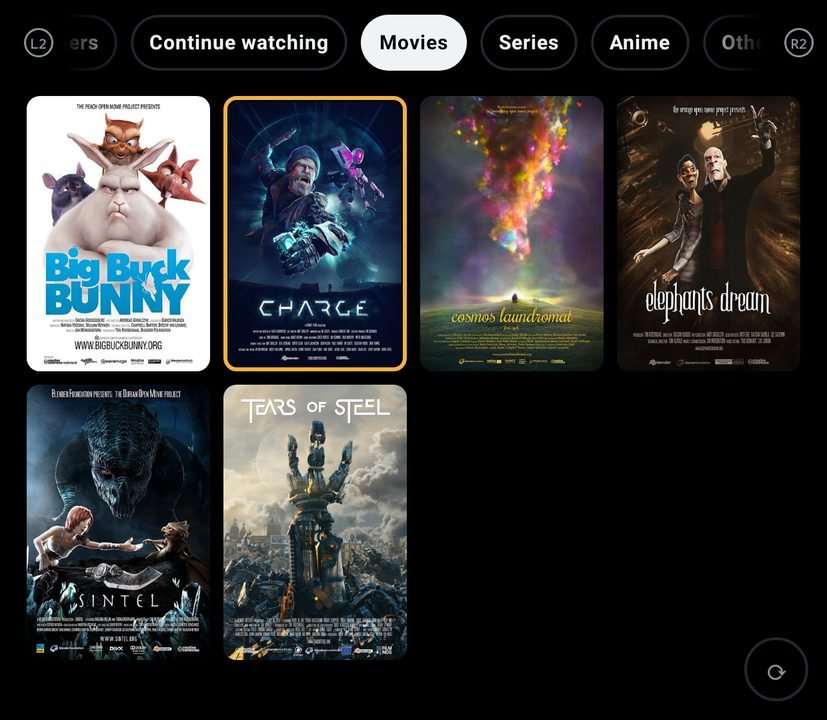
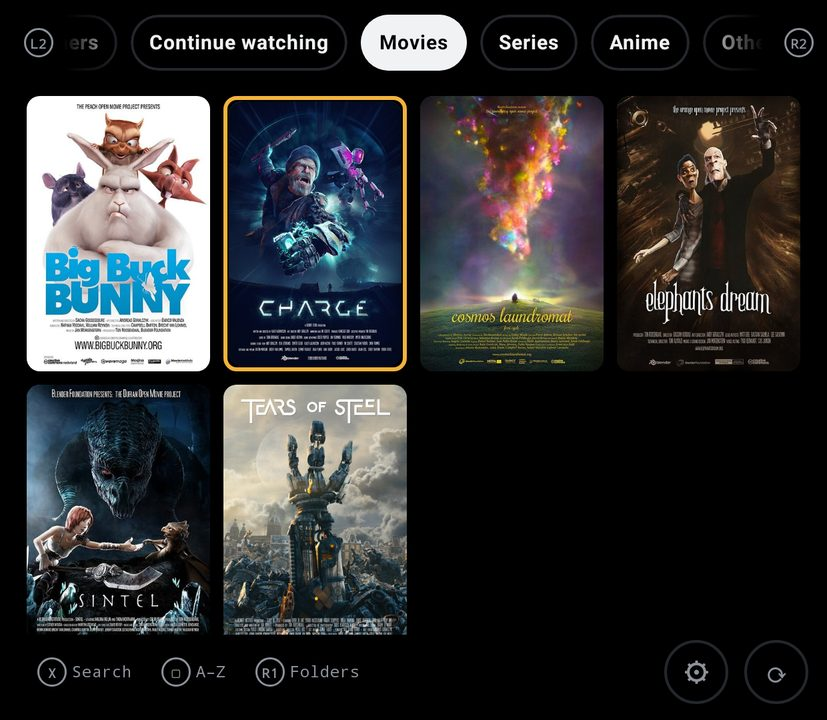
Docs and mockup page: v1 built
Records D43–D47 (Fix match, how Fetch info fills things in, Playback settings,
Browsing's new buttons, and what's left out of v1 and why), updates FEATURES and
the README status, and on the mockup page marks stages 6, 7 and the library extras
done, updates the plan markers and the comparison, and adds screenshots of Fix
match, Playback settings, Search and the folder browser.

Claude-Session: https://claude.ai/code/session_013sgYgnHkKU9qngHH6HQLSb

Changed region(s): [[0.2721, 0.8556, 0.5139, 0.9472], [0.0302, 0.8556, 0.2721, 0.9472], [0.786, 0.8861, 0.9674, 0.9778]]

diff --git a/docs/mockups/plan-and-screens.html b/docs/mockups/plan-and-screens.html
@@ -255,6 +255,7 @@ p { margin: 0; }
 .stg .commit { font: 500 12px/1.3 var(--f-mono); color: var(--muted); }
 .pill.done { color: var(--ok); border: 1px solid currentColor; }
 .pill.next { color: var(--accent); border: 1px solid currentColor; }
+.pill.todo { color: var(--muted); border: 1px dashed var(--line); }
 .shots { display: grid; gap: 22px; }
 .shot { display: grid; gap: 10px; min-width: 0; }
 .shot header { display: flex; justify-content: space-between; align-items: baseline; gap: 12px; flex-wrap: wrap; }
@@ -290,7 +291,7 @@ p { margin: 0; }
 </style>
 
 <header class="masthead wrap">
-  <div class="eyebrow">Exo Player · updated Oct 25, 2026 · stages 1–5 of 6 built</div>
+  <div class="eyebrow">Exo Player · updated Oct 25, 2026 · v1 built; gates need the Thor</div>
   <h1>Both screens, every state, and the plan behind them</h1>
   <p class="lede">The mockup of each screen state, drawn to the Thor's real proportions, with the build plan by category and the display and layout rules. Decisions are marked <b>(decided)</b>. The Build tab shows how far the app has got and what its screens actually look like.</p>
 </header>
@@ -359,7 +360,7 @@ p { margin: 0; }
 
   <!-- ================= BUILD ================= -->
   <section class="view" id="build" role="tabpanel" aria-labelledby="tab-build" hidden>
-    <div><h2>Build progress</h2><p class="lede" style="margin-top:6px">v1 is being built in six stages. Each stage is committed to the repo once it compiles and its tests pass. Nothing has run on a Thor yet: the screens below are drawn by the app's own code at the Thor's pixel sizes, using the open-movie sample art.</p></div>
+    <div><h2>Build progress</h2><p class="lede" style="margin-top:6px">v1 was built in stages, each committed once it compiled and its tests passed. Every v1 feature is now built; the gates need the Thor. Nothing has run on a Thor yet: the screens below are drawn by the app's own code at the Thor's pixel sizes, using the open-movie sample art.</p></div>
     <div class="stages" id="stages"></div>
     <div><h2>The real screens</h2><p class="lede" style="margin-top:6px">Top screen on the left, bottom screen on the right, as the app draws them. The ⏻ and ✎ corner buttons are drawn by the bottom window around these screens, so they don't appear here. <b>Compare with mockup</b> opens the same state on the Screens tab.</p></div>
     <div class="shots" id="shots"></div>
@@ -981,7 +982,7 @@ p { margin: 0; }
   var gates = [
     ["v0", "Two-screen test app + mockups", "Probe app measures the Thor; layouts compared", 0, "part", "Mockups done; the measuring page is in the app (Select + Start). Measuring needs the Thor"],
     ["G1", "Gate 1", "Both screens work with buttons and touch; probe questions answered; layout chosen", 1, "todo", "Needs the Thor"],
-    ["v1", "First usable player", "Library, artwork, resume, auto-next, local subtitles", 0, "part", "Stages 1–5, Settings, volume bar and pause-on-leave built; stage 6 (online) next, then the player extras"],
+    ["v1", "First usable player", "Library, artwork, resume, auto-next, local subtitles", 0, "part", "Every v1 feature is built and tested on the PC; what's left is the gates, which need the Thor"],
     ["G2", "Gate 2", "Battery ≤ VLC (±3%); 95% of 100 filenames match", 1, "todo", "Needs the Thor and your 100 file names"],
     ["v2", "Comfort", "Backup, frontends, TV output, sleep timer", 0, "todo", ""],
     ["G3", "Gate 3", "No battery regression", 1, "todo", ""],
@@ -1013,25 +1014,25 @@ p { margin: 0; }
       ["Pick the SD card folder once (folder picker)", "v1", "done"],
       ["Scan, then rescan only changed folders", "v1", "part", "Only changed files are read again, but every folder is still listed"],
       ["Filename parser, tested on 100 real names", "v1", "part", "Built and tested on 38 names; needs your 100"],
-      ["Match on TMDB; download posters, backdrops, logos", "v1", "todo", "Stage 6"],
-      ["Group Show › Season › Episode; list missing episodes", "v1", "part", "Grouping built; missing episodes appear once Fetch info works"],
-      ["Fix a match by hand; survives rescans", "v1", "todo", "Stage 6; the keyboard for it is built"],
-      ["Folder browser; search, sort, filter", "v1", "todo"],
+      ["Match on TMDB; download posters, backdrops, logos", "v1", "done", "Only what's missing (D38); no logos yet, since nothing shows them. Tested against a stand-in server"],
+      ["Group Show › Season › Episode; list missing episodes", "v1", "done"],
+      ["Fix a match by hand; survives rescans", "v1", "done", "✎ or Y; by name or TMDB ID (D43)"],
+      ["Folder browser; search, sort, filter", "v1", "done", "X Search, Select order, R1 Folders (D46)"],
       ["Settings: API keys (typed or pasted, stored encrypted), refresh rate per screen, video folder, About", "v1", "done"],
       ["Pause and save when leaving the app, power off or lid (D40)", "v1", "done"] ] },
     { t: "Playback", s: "Everything that happens once you press Play.", steps: [
       ["ExoPlayer + FFmpeg audio; hardware decoding first", "v1", "done"],
       ["Notices for software decoding and unsupported audio", "v1", "done"],
-      ["Seek, skip, chapters, speed, aspect, volume boost, screen lock", "v1", "part", "±10 s skip and the volume bar with boost to 200 %; the rest is planned as stage 7"],
-      ["Audio and subtitle tracks; delay in 50 ms steps", "v1", "part", "Tracks and subtitle delay built; audio delay not yet"],
+      ["Seek, skip, chapters, speed, aspect, volume boost, screen lock", "v1", "part", "All built except chapters (ExoPlayer doesn't read MKV chapters) and the touch lock (dropped: ⏻ covers it) (D47)"],
+      ["Audio and subtitle tracks; delay in 50 ms steps", "v1", "done", "Audio delay in Playback settings (Start)"],
       ["Resume; watched at 90%; auto-play next with countdown", "v1", "done"],
       ["Sleep timer, background audio, night mode, Bluetooth delay", "v2", "todo"],
       ["Playlists and queue; TV output when docked", "v2", "todo"],
       ["Picture-in-picture; skip intro", "v3", "todo"] ] },
     { t: "Subtitles", s: "Find, show and style subtitles.", steps: [
       ["Load .srt, .ass, .vtt next to the video automatically", "v1", "done"],
-      ["Basic styling: size, colour, outline, position", "v1", "todo"],
-      ["OpenSubtitles search by file hash; save next to the video", "v1", "todo", "Stage 6; keys go in Settings"],
+      ["Basic styling: size, colour, outline, position", "v1", "done", "Size, position, dark box (D45)"],
+      ["OpenSubtitles search by file hash; save next to the video", "v1", "done", "Tested against a stand-in server"],
       ["Full ASS styling (libass renderer)", "v2", "todo"] ] },
     { t: "Progress & stats", s: "What you've watched, kept on the device.", steps: [
       ["Watch sessions recorded; saves on pause, stop and once a minute", "v1", "done"],
@@ -1050,7 +1051,7 @@ p { margin: 0; }
       ["Battery test against VLC on the same firmware", "v1", "todo", "Needs the Thor"],
       ["After every Thor OTA: rerun the short checklist", "v1", "todo"] ] },
     { t: "Testing", s: "Most of it works before the Thor arrives.", steps: [
-      ["Unit tests: parser, stats maths, overrides", "v1", "part", "45 tests: parser, library, subtitles, series, keyboard, settings; stats and overrides not yet"],
+      ["Unit tests: parser, stats maths, overrides", "v1", "part", "74 tests, overrides included; stats maths waits for the stats screen"],
       ["Emulator with a simulated 1240×1080 second screen", "v0", "part", "No emulator here: screenshot tests draw the screens at the Thor’s sizes instead"],
       ["Your phone: decoding, subtitles, Bluetooth controller", "v1", "todo"],
       ["Thor: both screens, buttons, battery", "v0", "todo", "Needs the Thor"] ] }
@@ -1082,18 +1083,18 @@ p { margin: 0; }
     ["Subtitle files next to the video", ".srt, .ass, .vtt; matched by name and language", "Built", "y", "y", "y", "y", "y", "y"],
     ["Full ASS styling and embedded fonts", "Anime signs, karaoke, positions", "v2", "y", "p", "p", "y", "y", "p"],
     ["Subtitle timing", "Exo Player moves its own subtitle files earlier or later, 50 ms at a time", "Built", "y", "y", "y", "y", "y", "y"],
-    ["Find subtitles online", "OpenSubtitles", "Stage 6", "y", "y", "n", "a", "n", "y"],
+    ["Find subtitles online", "OpenSubtitles", "Built", "y", "y", "n", "a", "n", "y"],
     ["Playback"],
     ["Resume where you stopped", "", "Built", "y", "y", "y", "y", "p", "y"],
-    ["Speed, aspect and zoom, audio delay", "", "Stage 7", "y", "y", "p", "y", "y", "y"],
+    ["Speed, aspect and zoom, audio delay", "", "Built", "y", "y", "p", "y", "y", "y"],
     ["Up next with a countdown", "Next episode plays by itself; one button cancels", "Built", "p", "p", "n", "a", "p", "p"],
     ["Picture-in-picture", "", "v3", "y", "y", "y", "n", "p", "y"],
     ["Library"],
-    ["Posters, plots and backdrops", "Scraped from TMDB", "Stage 6", "n", "n", "n", "y", "n", "y"],
+    ["Posters, plots and backdrops", "Scraped from TMDB", "Built", "n", "n", "n", "y", "n", "y"],
     ["Show › Season › Episode", "Even when files sit loose in one folder", "Built", "p", "n", "n", "y", "n", "y"],
     ["Continue watching", "Half-watched movies and the next episode of each show", "Built", "p", "p", "n", "y", "n", "p"],
     ["Missing episodes greyed", "From TMDB's episode list", "Built", "n", "n", "n", "a", "n", "n"],
-    ["Fix a wrong match by hand", "", "Stage 6", "n", "n", "n", "y", "n", "y"],
+    ["Fix a wrong match by hand", "", "Built", "n", "n", "n", "y", "n", "y"],
     ["Trakt sync", "", "v3", "n", "n", "n", "a", "n", "y"],
     ["Network"],
     ["Network shares", "SMB, DLNA", "Later", "y", "y", "n", "y", "p", "y"],
@@ -1153,7 +1154,7 @@ p { margin: 0; }
 
   document.getElementById("cmpSum").innerHTML = [
     ["Where we're ahead", ["The only player that uses both of the Thor's screens", "Continue watching, Up next and missing episodes together, in a player this light", "Never goes online unless you press a button"]],
-    ["Planned, to catch up", ["Stage 6: artwork from TMDB, Find subtitles, Fix match", "Stage 7: speed, aspect and zoom, audio delay, mark unwatched, search", "v2: full ASS styling, network shares later"]],
+    ["Planned, to catch up", ["v2: full ASS styling, background audio with notification controls, backup, TV output", "Later: network shares, Jellyfin and Plex"]],
     ["Gaps to decide", ["Software video decoders, our own FFmpeg build, for 10-bit H.264, DivX 3, WMV (proposed)", "Move libass from v2 to v1, for anime typesetting (proposed)", "WMV/RMVB containers, DVD ISOs and ordered chapters: only libVLC would cover these"]]
   ].map(function (b) { return '<div><h3>' + b[0] + '</h3>' + li(b[1]) + '</div>'; }).join('');
 
@@ -1204,10 +1205,13 @@ p { margin: 0; }
     ["3. Browsing", "done", "f4a7370", "The five tabs and the cards.", ["Continue watching, Movies, Series, Anime, Others on L2 / R2, in a full circle", "Poster cards 4 across", "Top: poster mix, or the focused title's art and details", "⟳ Fetch info corner (online part in stage 6)"]],
     ["4. Player", "done", "965f46e", "One player for movies and episodes.", ["Resumes where you stopped; saved on pause, stop and each minute; watched at 90%", "Progress, Resume / Pause, ‹ Prev / Next ›, Play from start, Mark watched", "Audio, Subtitles, subtitle timing in 50 ms steps both ways (.srt, .vtt)", "Up next with a 10 s countdown; ✎ and ⏻ corners; L2 / R2 ±10 s", "FFmpeg audio for DTS, TrueHD, AC3"]],
     ["5. Series and anime", "done", "df18a0e", "Details → seasons → episodes → play.", ["Season cards 4 across, episode cards 3 across", "✓ watched, progress bar, missing episodes greyed", "Continue watching plays the episode; B lands on its season's episodes", "One-season shows skip the season cards; one-episode shows play like movies"]],
-    ["6. Online, on request", "next", "", "Only when you press a button (D32, D36).", ["⟳ Fetch info: TMDB, then fanart.tv / AniList, art at display size; only what's missing is fetched, never the whole library again (D38)", "Find subtitles: OpenSubtitles; the file is saved next to the video, like a local subtitle (D37)", "✎ Fix match with the app's own keyboard on the bottom screen", "Keys are entered in Settings (Start or ⚙ on Browsing), typed or pasted, stored encrypted (D39)"]]
+    ["6. Online, on request", "done", "86c2cf6", "Only when you press a button (D32, D36).", ["⟳ Fetch info: TMDB, fanart.tv and AniList; only what's missing (D38, D44)", "Find subtitles: OpenSubtitles, saved next to the video (D37)", "✎ Fix match by name or TMDB ID (D43)", "Tested against stand-in servers: the real services weren't reachable from the build machine"]],
+    ["7. Player extras", "done", "986fe4d", "Everything else the player needed for v1.", ["Playback settings on Start: speed, picture, audio delay, subtitle look, brightness (D45)", "Volume bar with boost; pause when leaving (D40, D41)", "Mark unwatched, scrubbing, headset buttons"]],
+    ["Library extras", "done", "ac18e60", "Finding things without scrolling.", ["X Search, as you type", "Select: A–Z, Recently added, Year, Unwatched only", "R1 Folder browser (D46)"]],
+    ["Gates 1 and 2", "todo", "", "What v1 still needs: the Thor itself.", ["Gate 1: both screens, buttons and touch on the device", "Gate 2: battery against VLC; 95 % of your 100 file names matched"]]
   ];
   document.getElementById("stages").innerHTML = STAGES.map(function (g) {
-    return '<div class="stg"><header><b>' + g[0] + '</b><span class="pill ' + g[1] + '" style="margin:0">' + (g[1] === "done" ? "Done" : "Next") + '</span></header>' +
+    return '<div class="stg"><header><b>' + g[0] + '</b><span class="pill ' + g[1] + '" style="margin:0">' + ({ done: "Done", next: "Next", todo: "Needs the Thor" })[g[1]] + '</span></header>' +
       '<p>' + g[3] + '</p>' + li(g[4]) + (g[2] ? '<div class="commit">commit ' + g[2] + '</div>' : '') + '</div>';
   }).join('');
 
@@ -1222,6 +1226,10 @@ p { margin: 0; }
     ["Series: details and seasons", "series", "The show first, with the episode to continue; season cards below.", "show_top_details", "show_bottom_seasons"],
     ["Series: a season focused", "series", "The season's art, poster and description. (The sample show has one image, so the poster repeats the backdrop.)", "show_top_season", null],
     ["Series: an episode focused", "series", "Episode 1 watched (✓), 2 started, 3 known to TMDB but not on the SD card.", "show_top_episode", "show_bottom_episodes"],
+    ["Playback settings", "movie", "Start in the player: each row changes with ◀ ▶. Audio delay is kept per file; the rest for every film.", null, "player_bottom_settings", "Top screen: the film, as before"],
+    ["Fix match", null, "✎ or Y. Search TMDB by name, or type a TMDB ID; L2 / R2 switch Movie and Series.", "fixmatch_top", "fixmatch_bottom"],
+    ["Search", null, "X on Browsing. Matches show on the top screen as you type; Done lists them as cards.", "search_top", "search_bottom"],
+    ["Folder browser", null, "R1 on Browsing: folders first with how many videos they hold, then videos with their progress.", null, "folders_bottom", "Top screen: the folder path and the focused entry"],
     ["Settings: what a key is for", null, "Start or ⚙ on Browsing. The top screen says what the setting is for and where to get it, never the key itself.", "settings_top", "settings_bottom_list"],
     ["Settings: entering a key", null, "The app's own keyboard: D-pad and A, or touch. Paste puts in a key copied in the browser. Start saves, B cancels.", null, "settings_bottom_editor", "Top screen: the same, headed Editing"]
   ];

diff --git a/docs/FEATURES.md b/docs/FEATURES.md
@@ -14,23 +14,23 @@ These are the features people expect from VLC, MX Player, Just Player and Kodi. 
 | Wide format support | mkv, mp4, avi, webm, ts; H.264, HEVC (incl. 10-bit), VP9, AV1; AAC, AC3, E-AC3, DTS, FLAC, Opus | v1 |
 | Hardware decoding | Uses the video chip by default; software decoding only as a fallback | v1 |
 | Unsupported audio notice **(research)** | If a file's audio can't be decoded (for example TrueHD), say so instead of playing silently | v1 |
-| Seek and skip | Scrub bar, ±10 s skip, double-tap or button skip, chapter jump | v1 |
+| Seek and skip | Tap or drag the progress bar; L2 / R2 ±10 s. **Chapter jump isn't possible with ExoPlayer, which doesn't read MKV chapters (D47)** | v1 |
 | Resume | Opens where you stopped | v1 |
 | Audio track switch | Pick language or commentary track | v1 |
 | Subtitle track switch | Pick an embedded or external track, or off | v1 |
-| Subtitle and audio delay | Shift timing in 50 ms steps | v1 |
-| Subtitle styling | Size, colour, outline, position; ASS/SSA styles honoured | v1 (basic), v2 (full ASS) |
-| Aspect and zoom | Fit, fill, crop, 16:9, 4:3, stretch | v1 |
+| Subtitle and audio delay | Shift timing in 50 ms steps: subtitles on the player screen, audio in Playback settings (Start), kept per file (D45) | v1 |
+| Subtitle styling | Size, position and a dark background box in Playback settings (D45); full ASS styles with libass later | v1 (basic), v2 (full ASS) |
+| Aspect and zoom | Fit, Zoom to fill, 16:9, 4:3, Stretch, in Playback settings (D45) | v1 |
 | Playback speed | 0.5× to 2× | v1 |
 | Volume and brightness | Volume bar on the player's bottom screen with a boost to 200 %; the volume buttons move it without Android's pop-up (D41). Quick brightness (top screen) not yet | v1 |
-| Screen lock | Locks touch so nothing is pressed by accident | v1 |
+| Screen lock | Dropped: the bottom screen is the only touch screen, and ⏻ already turns it off (D47) | — |
 | Sleep timer | Stop after this episode or after N minutes | v2 |
-| Background audio | Keep audio going with the screen off | v2 |
+| Background audio | Keep audio going with the screen off; notification controls come with it (D47). Headset play / pause works now | v2 |
 | Picture-in-picture | Small floating video while using another app | v3 |
 | Night mode | Quieter loud scenes (dynamic range compression), on top of AYN's system EQ | v2 |
 | Bluetooth audio delay | Auto or manual offset for headphones | v2 |
-| Folder browser | Browse files directly, outside the library | v1 |
-| Search, sort, filter | By title, year, genre, recently added, unwatched. **Typing happens on the top screen (research)** | v1 |
+| Folder browser | R1 on Browsing: your folders as they are on the SD card, folders first, then videos with progress (D46) | v1 |
+| Search, sort, filter | X on Browsing searches titles, years and genres, typed on the app's own keyboard on the bottom screen (D25); Select steps through A–Z, Recently added, Year and Unwatched only (D46) | v1 |
 | Playlists and queue | Queue several files, repeat, shuffle | v2 |
 | TV output | Plays correctly when docked over USB-C DisplayPort: video on the TV, controls on the bottom screen | v2 |
 | Network shares | SMB, DLNA, Jellyfin | Later |

diff --git a/README.md b/README.md
@@ -12,7 +12,7 @@ A personal Android video player built for the **AYN Thor Max**'s two screens. It
 
 ## Status
 
-**v1 is being built in stages.** Stages 1–5 are done: the app runs on both screens, reads your video folder, shows Browsing, opens series and anime by season and episode, and plays movies and episodes. The online parts (stage 6: Fetch info, Find subtitles, Fix match) are next; they need your API keys.
+**v1 is built.** Every v1 feature is in the code and its tests pass on the PC, but nothing has run on a Thor yet, and the online services (TMDB, fanart.tv, AniList, OpenSubtitles) were tested against stand-in servers because the build machine can't reach them. What's left for v1 is the two gates, which need the Thor: Gate 1 (both screens, buttons and touch on the device) and Gate 2 (battery against VLC, and 95 % of your 100 file names matched).
 
 | Stage | What it adds | Status |
 | --- | --- | --- |
@@ -22,12 +22,15 @@ A personal Android video player built for the **AYN Thor Max**'s two screens. It
 | 4. Player | Resume where you stopped, Pause, Play from start, Mark watched, Audio, Subtitles with ±50 ms timing, ‹ Prev / Next ›, Up next, ✎ and ⏻ | Done |
 | 5. Series and anime | Show details, season cards, episode cards (3 across, ✓ watched, progress, missing greyed), continue straight into the episode, one-season shows skip the season cards | Done |
 | Settings | API keys and the OpenSubtitles login (typed or pasted, stored encrypted), video folder, About. Start or ⚙ on Browsing | Done |
-| 6. Online, on request | TMDB / fanart.tv / AniList artwork, OpenSubtitles, Fix match | Next |
+| 6. Online, on request | Fetch info from TMDB (fanart.tv and AniList as fallbacks), only what's missing; Fix match; Find subtitles from OpenSubtitles, saved next to the video | Done |
+| 7. Player extras | Playback settings on Start (speed, picture, audio delay, subtitle look, brightness), volume bar with boost, Mark unwatched, scrubbing, headset buttons, pause when leaving | Done |
+| Library extras | Search, sort and filter, folder browser | Done |
+| Gates 1 and 2 | Measure and test on the Thor; battery against VLC; your 100 file names | Needs the Thor |
 
 | Version | What it adds | Status |
 | --- | --- | --- |
 | v0 | Two-screen test app that measures the Thor; layout mockups | Done (diagnostics page in the app) |
-| v1 | Library scan, artwork, resume, Continue watching, auto-play next, local subtitles, subtitle search | In progress |
+| v1 | Library scan, artwork, resume, Continue watching, auto-play next, local subtitles, subtitle search | Built; gates need the Thor |
 | v2 | Backup, launch from frontends, TV output | Planned |
 | v3 | Skip intro, Trakt sync, themes, picture-in-picture | Planned |
 

diff --git a/docs/PLAN.md b/docs/PLAN.md
@@ -103,6 +103,11 @@ The screen layouts aren't decided yet. They get designed as mockups in v0, compa
 | D40 | **Leaving the app pauses the film.** Home, switching apps, closing the app, the power button and the lid all pause and save the position straight away. Coming back shows the paused screen; nothing resumes by itself | Oct 25, 2026 |
 | D41 | **Volume bar on the player's bottom screen**, under Resume / Pause: − and + with a bar. Up to 100 % it is Android's media volume; past that it boosts to 200 % (the planned volume boost). The Thor's volume buttons move the same bar while a film is open, so Android's volume pop-up never covers the picture (R1) | Oct 25, 2026 |
 | D42 | **Refresh rate per screen in Settings.** Auto (the default) keeps battery rule 2: the screen's own rate, and the film's rate during playback when the switch is seamless. A fixed rate, from the rates each screen offers, holds everywhere, films included; that's your choice to trade battery for smoothness | Oct 25, 2026 |
+| D43 | **Fix match** is ✎ on the player and series screens, and Y on a focused card or show. It searches TMDB by name, or takes a TMDB ID typed as a number; L2 / R2 switch between Movie and Series. The choice is saved and survives rescans; that one title is then fetched fresh | Oct 25, 2026 |
+| D44 | **How Fetch info fills things in:** posters at 342 px, backdrops at 1280 px and episode stills at 300 px, saved already shrunk; textless backdrops first for the top screen; fanart.tv only for art TMDB lacks; AniList only for anime TMDB doesn't know. Anime numbered straight through (One Piece 1050) is mapped across TMDB's seasons. Stills only for episodes on the card | Oct 25, 2026 |
+| D45 | **Playback settings on Start in the player:** speed, picture (Fit, Zoom to fill, 16:9, 4:3, Stretch), audio delay (50 ms steps, kept per file), subtitle size, position and background, top screen brightness. Speed lasts the session; the rest are kept | Oct 25, 2026 |
+| D46 | **More buttons on Browsing:** X Search, Select the order (A–Z, Recently added, Year, Unwatched only; it changes on release so Select + Start still opens diagnostics), R1 the folder browser. They are shown in a bar under the cards | Oct 25, 2026 |
+| D47 | **Left out of v1, and why:** MKV chapter jumps (ExoPlayer doesn't read MKV chapters); a touch lock (⏻ already turns the only touch screen off); notification controls (they come with background audio in v2). Headset and Bluetooth play / pause work through a media session | Oct 25, 2026 |
 
 **Questions the design must answer**
 
